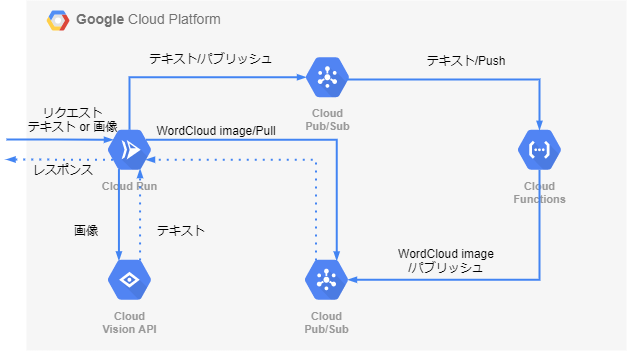
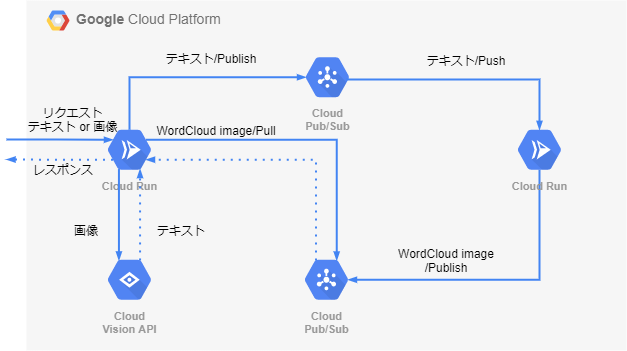
Modify TODO

diff --git a/web/main.go b/web/main.go
@@ -68,8 +68,8 @@ func indexHandler(w http.ResponseWriter, r *http.Request) {
 		}
 
 		// TODO:
-		// 1. ブラウザから入力したテキスト・画像から抽出したテキストをパブリッシュする先のTopicを作成する。 <- PubSubをCloud Functionsのトリガーにするには、予めTopicが無いとダメっぽい。terraformで生成する。
-		// 2. サブスクライブしたテキストデータから生成されるWordCloudイメージデータ(CloudFunctions(Python)の処理)、のパブリッシュ先のTopicを作成する。
+		// 1. ブラウザから入力したテキスト・画像から抽出したテキストをパブリッシュする先のTopicと受信しpushするSubscriptionをterraformから作成する。こちらまず読んでから実装-> https://cloud.google.com/run/docs/triggering/pubsub-push?hl=ja#run_pubsub_handler-python
+		// 2. サブスクライブしたテキストデータから生成されるWordCloudイメージデータ(CloudRun(Python)の処理)、のパブリッシュ先のTopicを作成する。
 		// 3. WordCloudイメージデータをPullする先のSubscriptionを作成する。
 		// 4. 1で作成したTopicに対してテキストデータをパブリッシュ
 		// 5. 3で作成したSubscriptionからWordCloudイメージデータを同期Pullする処理
